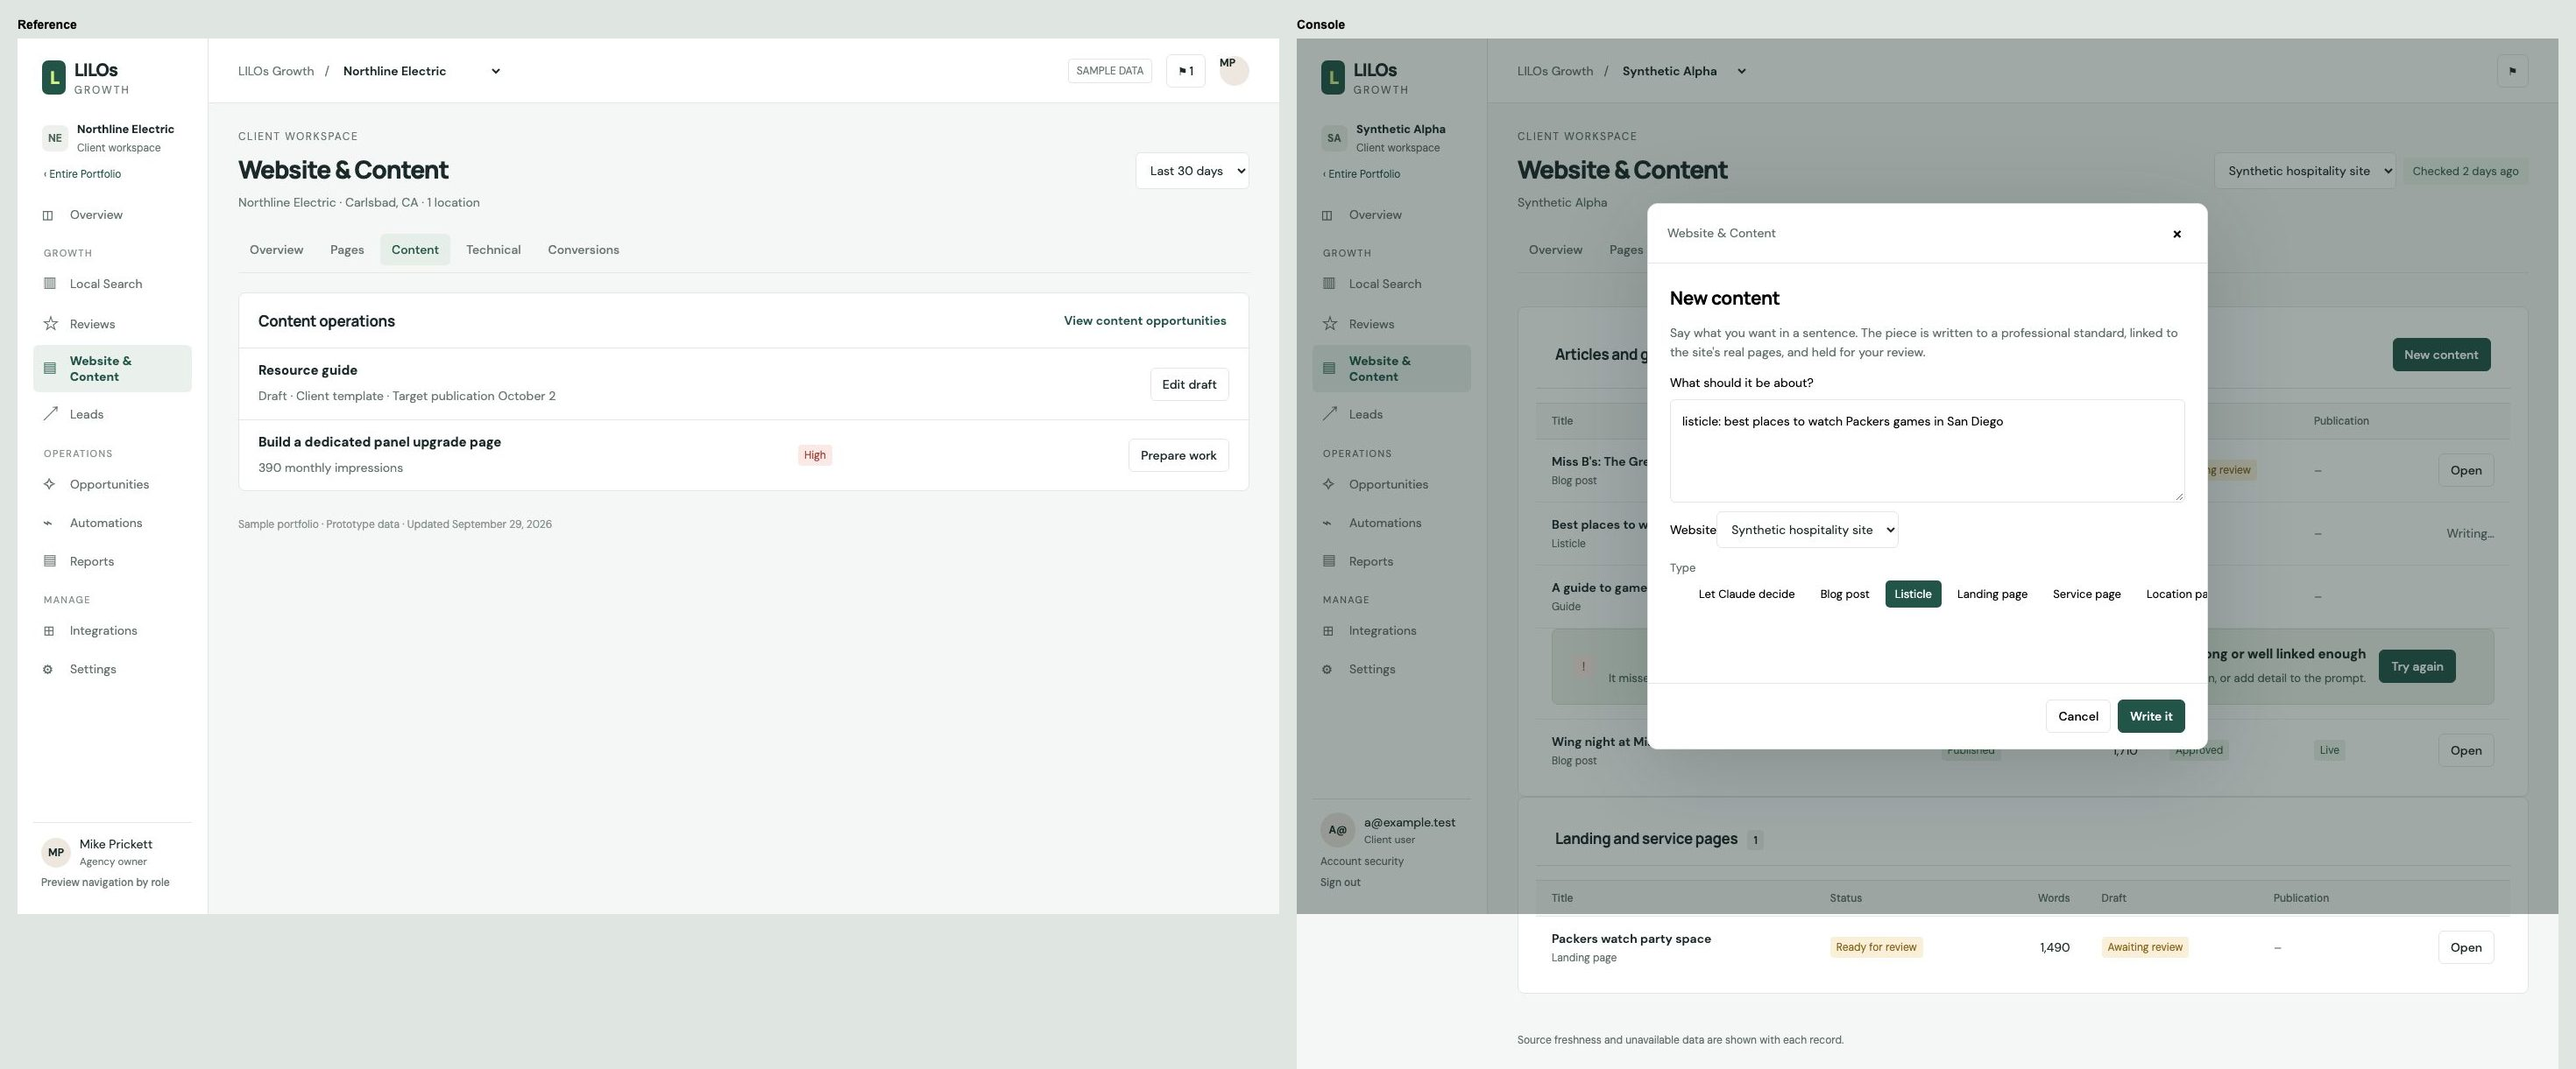
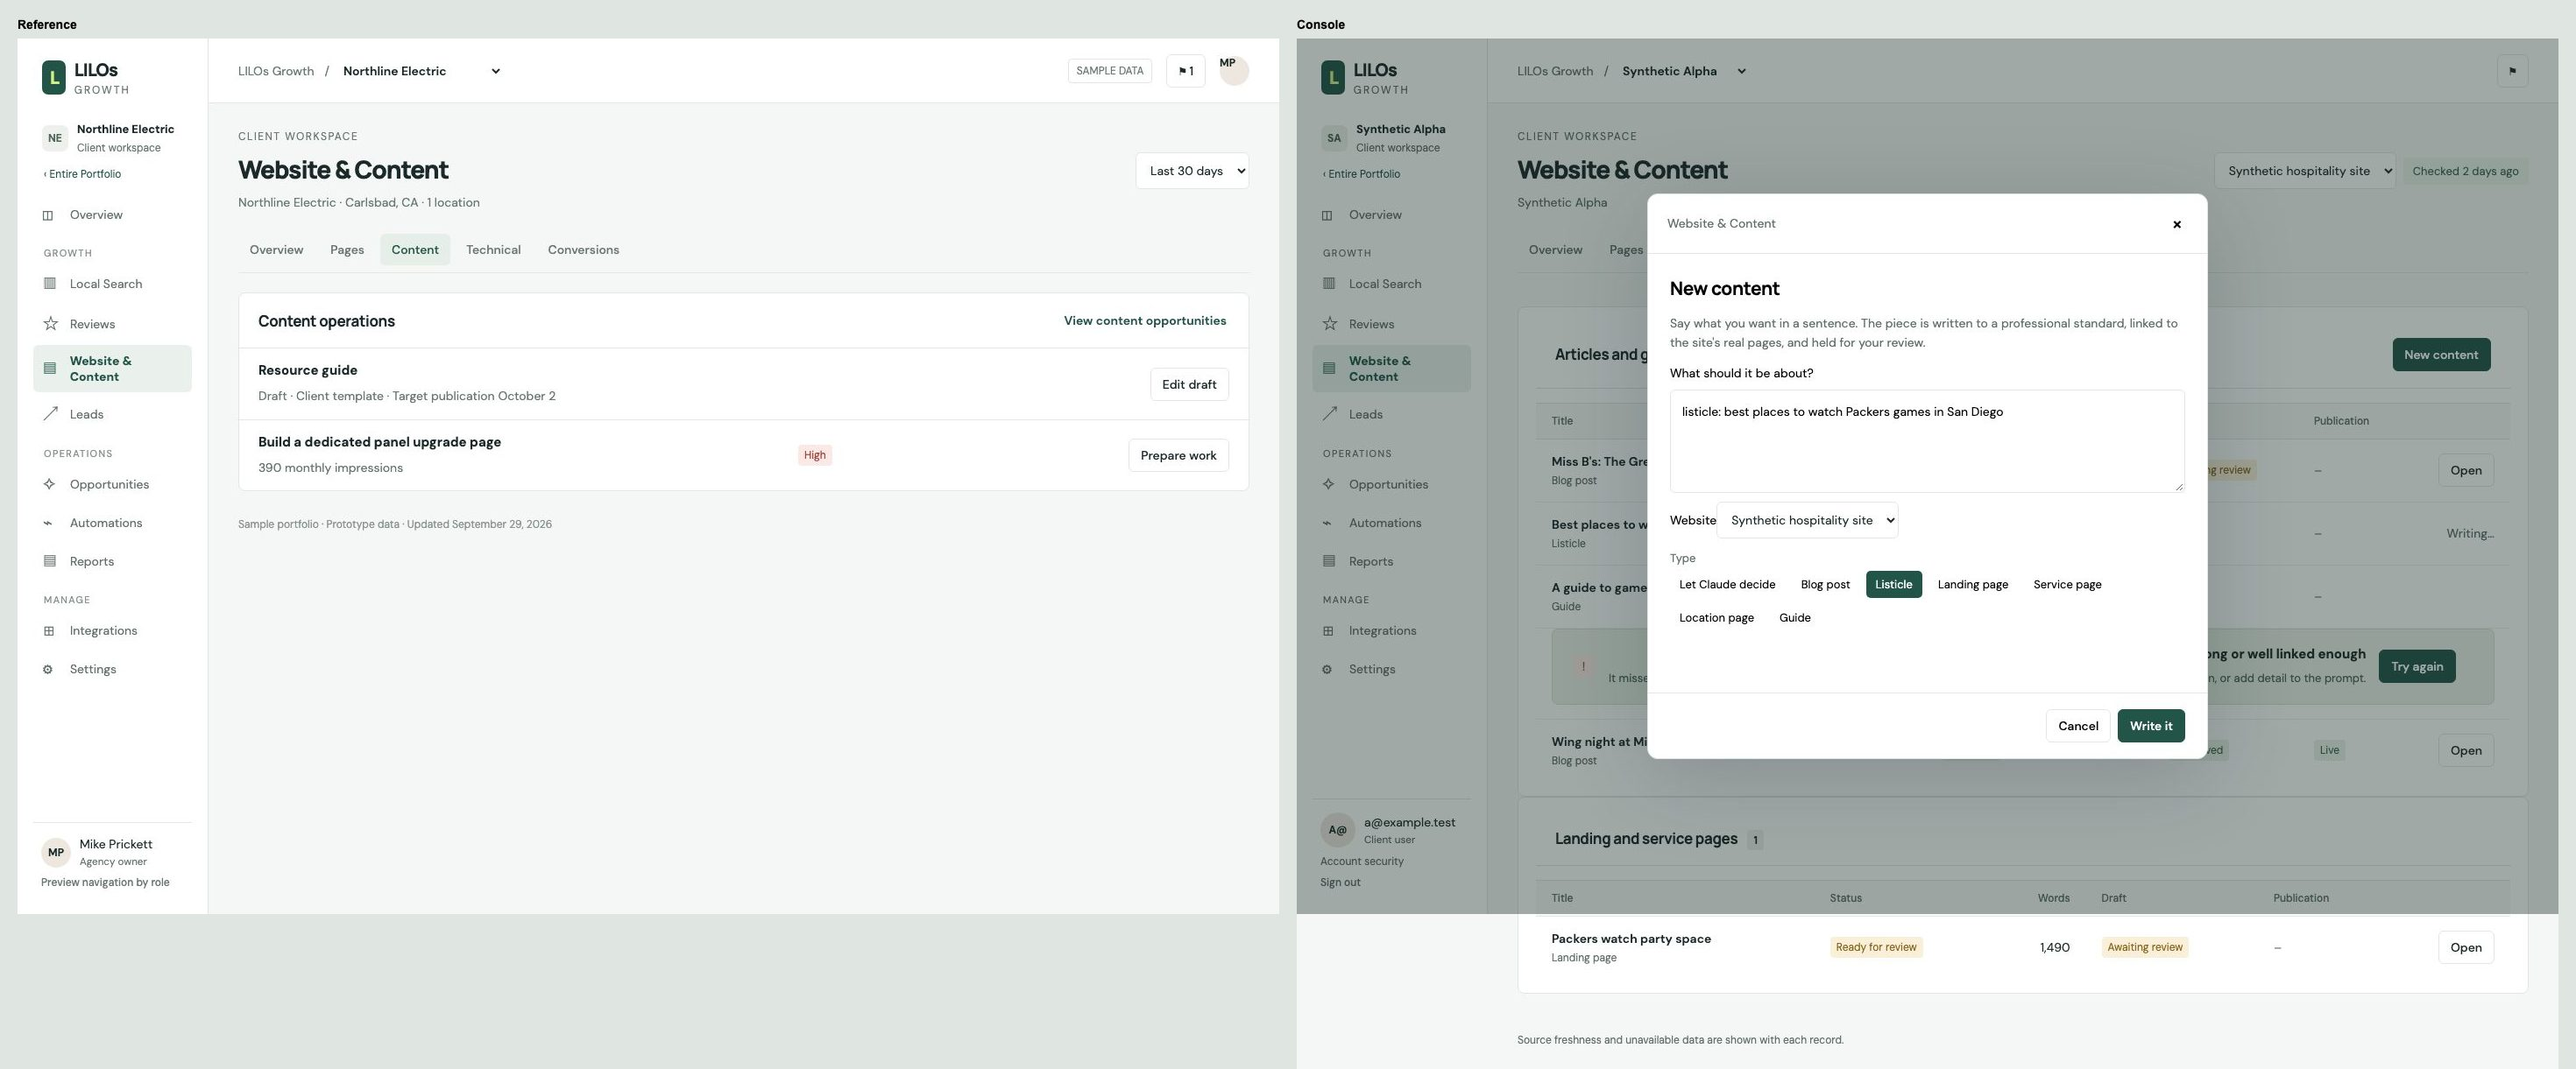
Wrap the composer's type chips inside the dialog; recapture composer screenshots

diff --git a/apps/console/src/styles/app.css b/apps/console/src/styles/app.css
@@ -2536,3 +2536,9 @@ details.activity summary {
     min-width: 180px;
   }
 }
+/* The composer's type chips wrap inside the dialog instead of scrolling off its edge. */
+.typechips .chips {
+  flex-wrap: wrap;
+  overflow: visible;
+  padding: 0;
+}
